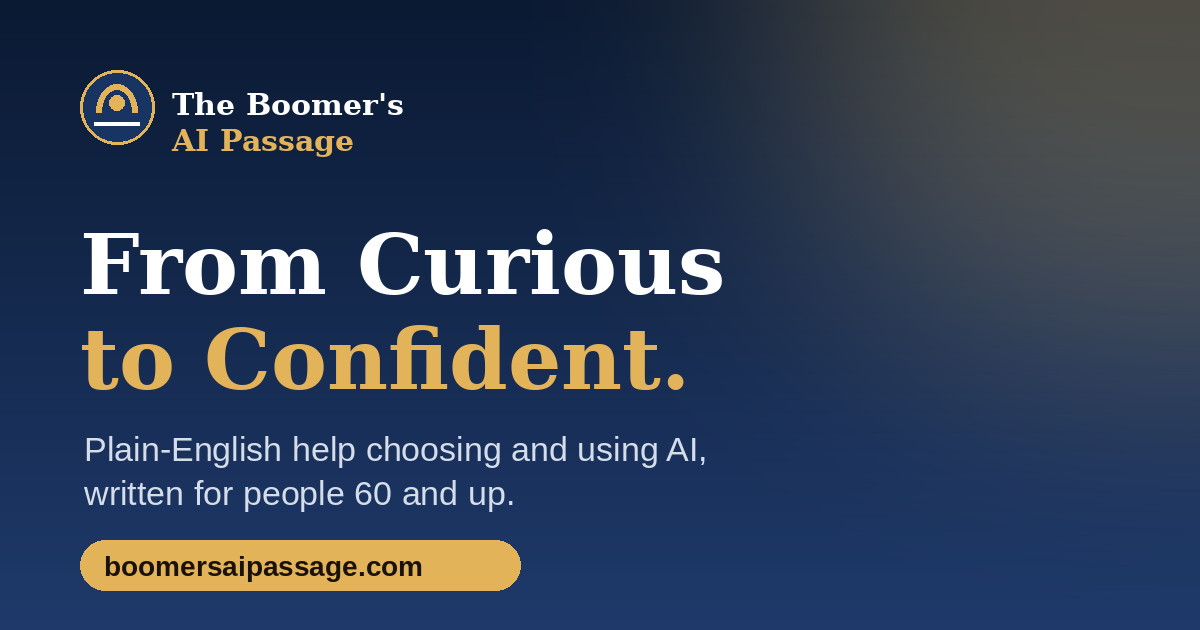
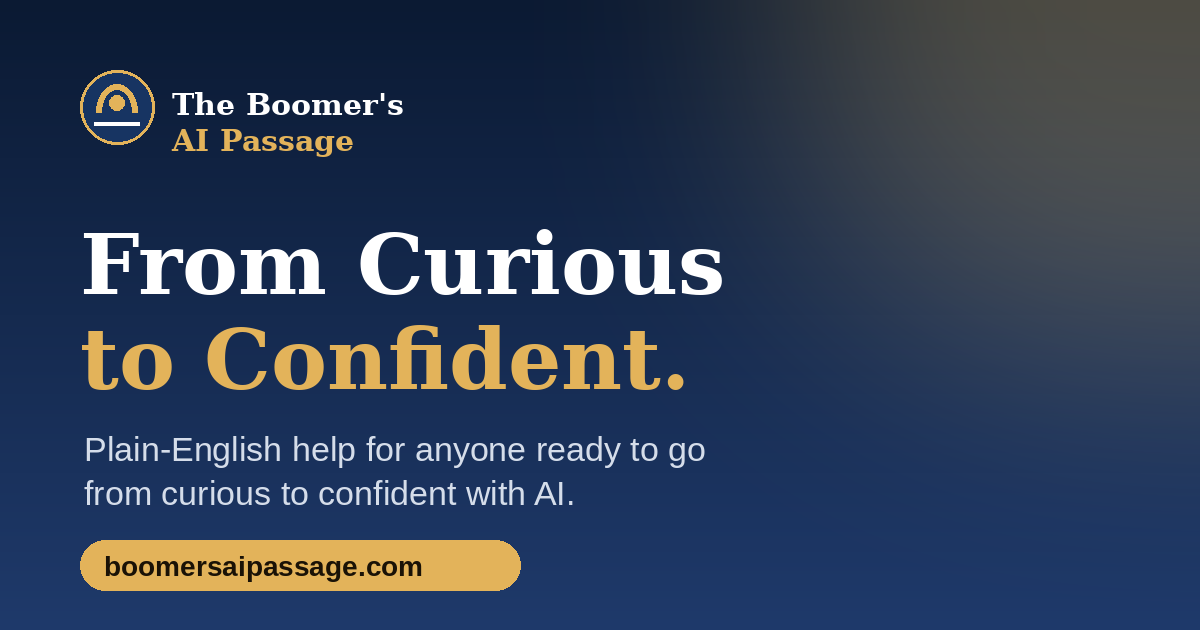
Replace age wording with curious-to-confident tagline; new share image
Claude-Session: https://claude.ai/code/session_011JXCBxJFhx8E5R9i9UY2Vz

Changed region(s): [[0.0617, 0.6937, 0.5858, 0.8143]]

diff --git a/.tools/build.js b/.tools/build.js
@@ -111,7 +111,7 @@ for (const p of P) {
   const related = P.filter(o => o.level === p.level && o.id !== p.id).slice(0, 4)
     .map(o => `<a href="/problems/${o.id}/">${esc(o.title)}</a>`).join("");
   const page = head(`${p.title}: which AI to use | The Boomer's AI Passage`,
-    `${answer} Plain-English steps, costs and the exact words to type. Written for people over 60.`, url,
+    `${answer} Plain-English steps, costs and the exact words to type. For anyone ready to go from curious to confident.`, url,
     `<script type="application/ld+json">${JSON.stringify(faq)}</script>`) + `
 <p class="crumb"><a href="/">Home</a> › <a href="/problems/">Everyday problems</a> › Step ${lvl.n}</p>
 <section class="article">
@@ -155,7 +155,7 @@ const byLevel = LEVELS.map(l => `<h2>Step ${l.n}: ${esc(l.name)}</h2><ul class="
 fs.mkdirSync(path.join(OUT, "problems"), { recursive: true });
 fs.writeFileSync(path.join(OUT, "problems", "index.html"),
   head("Everyday problems AI can help with | The Boomer's AI Passage",
-    "Pick an everyday problem and see which AI to use, what it costs, and exactly what to type. Plain English, for people over 60.",
+    "Pick an everyday problem and see which AI to use, what it costs, and exactly what to type. Plain English, no tech background needed.",
     DOMAIN + "/problems/") + `
 <p class="crumb"><a href="/">Home</a> › Everyday problems</p>
 <section class="article"><h1>Everyday problems AI can help with</h1>
@@ -215,15 +215,15 @@ function seoHead(title, desc, url) {
 <meta property="og:type" content="website">`;
 }
 let home = keepOnly(html, ["home", "all"])
-  .replace("<title>The Boomer's AI Passage</title>", seoHead("The Boomer's AI Passage: AI for Boomers, From Curious to Confident", "Plain-English help choosing and using AI, written for people over 60. Pick an everyday problem and get the right AI tool, what it costs, and the exact words to type.", DOMAIN + "/"))
+  .replace("<title>The Boomer's AI Passage</title>", seoHead("The Boomer's AI Passage: AI for Boomers, From Curious to Confident", "Plain-English help for anyone ready to go from curious to confident with AI. Pick an everyday problem and get the right AI tool, what it costs, and the exact words to type.", DOMAIN + "/"))
   .replace("<!--GUIDES-->", "");
 fs.writeFileSync(path.join(OUT, "index.html"), home);
 
 const SUBPAGES = [
   { slug: "start", keep: "start", eyebrow: "Start here", h1: "New to AI? Start here.", lede: "Five minutes: what AI is, what you need (and don't), your first questions, and five safety rules.", title: "New to AI? Start Here | The Boomer's AI Passage", desc: "What AI is in plain English, what you need to use it, your first questions to try, and five safety rules. Written for people over 60." },
-  { slug: "picks", keep: "picks", eyebrow: "Our picks", h1: "The AI tools we recommend.", lede: "Our top all-purpose helpers and the best tool for each special job, with how we rank them.", title: "Best AI Tools for Seniors, Ranked | The Boomer's AI Passage", desc: "The AI tools we recommend for people over 60, ranked on how well they do the job, ease of use, value and trust. Rankings are never for sale." },
+  { slug: "picks", keep: "picks", eyebrow: "Our picks", h1: "The AI tools we recommend.", lede: "Our top all-purpose helpers and the best tool for each special job, with how we rank them.", title: "Best AI Tools for Seniors, Ranked | The Boomer's AI Passage", desc: "The AI tools we recommend for everyday life, ranked on how well they do the job, ease of use, value and trust. Rankings are never for sale." },
   { slug: "agents", keep: "agents", eyebrow: "Report card", h1: "AI agents: which are ready for you?", lede: "Agents do errands for you. Here's an honest look at which ones are ready, which need a helper, and which to skip for now.", title: "AI Agents Report Card for Seniors | The Boomer's AI Passage", desc: "An honest, plain-English report card on AI agents like Alexa+, ChatGPT agent mode and Claude in Chrome: ready, try with a helper, or not yet." },
-  { slug: "news", keep: "news", eyebrow: "What's new", h1: "New in AI this month.", lede: "What changed lately, in plain words, and whether you need to care.", title: "AI News for Seniors, in Plain English | The Boomer's AI Passage", desc: "What changed in AI this month, explained in plain English for people over 60, and whether you need to care." },
+  { slug: "news", keep: "news", eyebrow: "What's new", h1: "New in AI this month.", lede: "What changed lately, in plain words, and whether you need to care.", title: "AI News for Seniors, in Plain English | The Boomer's AI Passage", desc: "What changed in AI this month, explained in plain English, and whether you need to care." },
 ];
 for (const sp of SUBPAGES) {
   const url = `${DOMAIN}/${sp.slug}/`;
@@ -252,7 +252,7 @@ ${urls.map(u => `  <url><loc>${u}</loc><lastmod>${today}</lastmod></url>`).join(
 `);
 fs.writeFileSync(path.join(OUT, "llms.txt"), `# The Boomer's AI Passage
 
-> Plain-English guidance on choosing and using AI tools, written for people over 60. Each guide answers "Which AI should I use for this?" with ranked picks, current prices, setup steps and the exact words to type. Rankings use four criteria (does the job well, easy to use, good value, trustworthy) and are never sold. Updated weekly.
+> Plain-English guidance on choosing and using AI tools, for anyone ready to go from curious to confident. Each guide answers "Which AI should I use for this?" with ranked picks, current prices, setup steps and the exact words to type. Rankings use four criteria (does the job well, easy to use, good value, trustworthy) and are never sold. Updated weekly.
 
 ## Everyday problems
 ${P.map(p => `- [${p.title}](${DOMAIN}/problems/${p.id}/): our top pick is ${T[p.picks[0].t].name}.`).join("\n")}

diff --git a/.tools/guides.js b/.tools/guides.js
@@ -1,5 +1,5 @@
 // Stand-alone guides: each becomes /<slug>/ with its own title, answer-first lead and FAQ data.
-// Plain words, short sentences, written for people 60 and up. Prices come from the site's tool list (checked monthly).
+// Plain words, short sentences, for anyone ready to go from curious to confident. Prices come from the site's tool list (checked monthly).
 const say = (label, text) => `<div class="say"><b>${label}</b><span>${text}</span><button class="copy" type="button" data-say="${text.replace(/"/g, "&quot;")}">Copy</button></div>`;
 
 module.exports = (GUMROAD) => [
@@ -99,7 +99,7 @@ ${say("Medicare deadline", "Medicare open enrollment ends December 7. Explain in
 {
   slug: "chatgpt-for-seniors",
   title: "How to Use ChatGPT: A Plain-English Guide for Seniors | The Boomer's AI Passage",
-  desc: "How to start using ChatGPT in five minutes, written for people over 60: what you need, how to sign up for free, what to type first, and how to stay safe.",
+  desc: "How to start using ChatGPT in five minutes, in plain English: what you need, how to sign up for free, what to type first, and how to stay safe.",
   eyebrow: "Step-by-step guide",
   h1: "How to use ChatGPT, in plain English.",
   lede: "Five minutes, no tech skills. What you need, how to start for free, and what to type first.",

diff --git a/.tools/app.html b/.tools/app.html
@@ -315,7 +315,7 @@ p.cost,.cost,.say b,p.fine,.fine{font-size:1rem}
 <!--P:home-->
 <section class="hero" aria-labelledby="hero-h"><div class="inner hero-grid">
   <div>
-    <p class="eyebrow">AI for people 60 and up · Plain English</p>
+    <p class="eyebrow">AI made simple · Plain English · No tech background needed</p>
     <h1 id="hero-h">From Curious to <em>Confident.</em></h1>
     <p class="lede">No hype. No jargon. Tell us what you need help with, and we'll show you which AI to use, what it costs, and the exact words to type.</p>
     <div class="ask">
